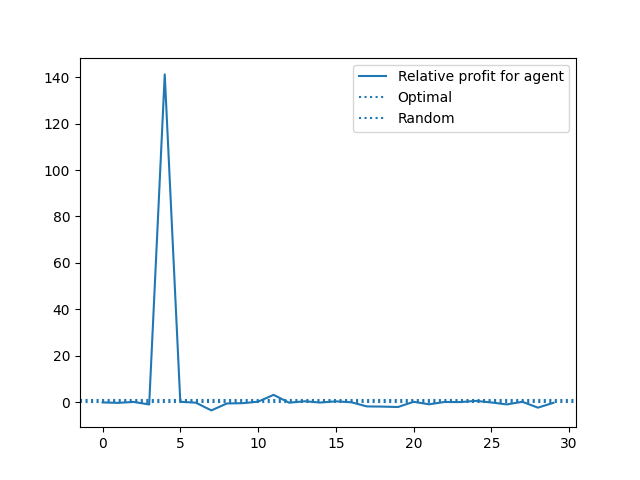
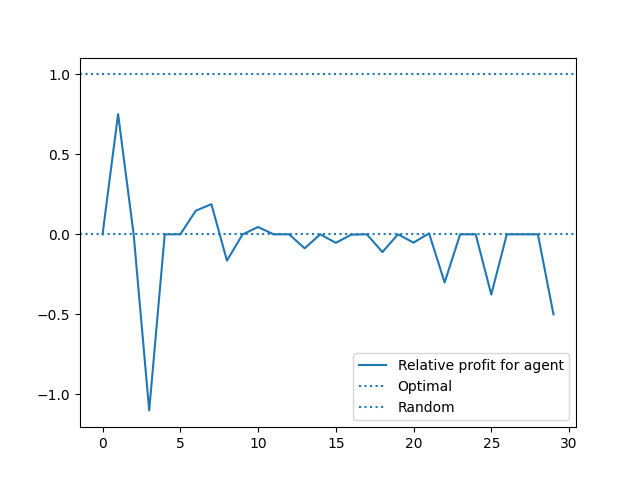
refactoring code, separating env agent, analytics

diff --git a/main.py b/main.py
@@ -1,36 +1,44 @@
-import gym 
-from gym_trading_btc.gym_anytrading.envs.bitcoin_env import *
-import gym_trading_btc.gym_anytrading as gym_anytrading
-import pandas as pd
 import matplotlib.pyplot as plt
+import pandas as pd
+from gym_trading_btc.gym_anytrading.envs.bitcoin_env import CryptoEnv
+from analytics.env_scorer import CryptoEnvScorer
 
-#from models.deepsense import *
+from models.dqn import DQNAgentDeepsense
 
-df_btc = pd.read_csv("gym_trading_btc/gym_anytrading/datasets/data/Bitstamp_BTCUSD_1h.csv", delimiter= ",")
+from config_mods import config_dqn_deepsense as config
 
 
-window_size = 2
-frame_len = 6
-start_index = window_size
-end_index = len(df_btc)
+df_btc = pd.read_csv(config["df_path"], delimiter=",")
 
-env = CryptoEnv(df = df_btc , window_size=window_size, frame_len= frame_len)
+env = CryptoEnv(**config)
+agent = DQNAgentDeepsense(**config)
+scorer = CryptoEnvScorer(env,agent, **config)
 
-observation = env.reset()
+num_episodes = config['num_episode']
 
-while True:
-    print(observation)
-    observation = observation[np.newaxis, ...]
+random_profit, agent_profit, optimal_profit = scorer.play_episodes(num_episodes)
 
-    action = env.action_space.sample()
-    observation, reward, done, info = env.step(action)
-    
-    
-    if done:
-        print("> Ending episode")
-        break
+def plot_asolute(random_profit, agent_profit, optimal_profit, title='figs/asolute-agent-profit.png'):
+    plt.plot(range(num_episodes), random_profit, label="Random profit")
+    plt.plot(range(num_episodes), agent_profit, label="Agent profit")
+    plt.plot(range(num_episodes), optimal_profit, label="'Optimal' profit")
+    plt.legend()
+    plt.savefig(title)
+    plt.clf()
 
-plt.figure(figsize=(16, 6))
-env.render_all(window='large')
-#plt.savefig("output.png")
-plt.show()
+def plot_relative(random_profit, agent_profit, optimal_profit, title='figs/relative-agent-profit.png'):
+    relative = []
+    for r,a,o in zip(random_profit, agent_profit, optimal_profit):
+        try:
+            relative.append(float(a - r) / (o - r))
+        except:
+            relative.append(0)
+    plt.plot(range(num_episodes), relative, label="Relative profit for agent")
+    plt.axhline(y = 1, linestyle = ':', label = "Optimal")
+    plt.axhline(y = 0, linestyle = ':', label = "Random")
+    plt.legend()
+    plt.savefig(title)
+
+
+plot_asolute(random_profit, agent_profit, optimal_profit)
+plot_relative(random_profit, agent_profit, optimal_profit)

diff --git a/analytics/env_scorer.py b/analytics/env_scorer.py
@@ -1,16 +1,15 @@
-from cgi import print_form
 
 from models.agent import Agent
-from .bitcoin_env import CryptoEnv,Actions
+from gym_trading_btc.gym_anytrading.envs.bitcoin_env import Actions
 import numpy as np
 import random as rand
 
 class CryptoEnvScorer():
 
-    def __init__(self, env, agent):
+    def __init__(self, env, agent, **config):
         self.env = env
         self.agent = agent
-        self.random = Agent()
+        self.random = Agent(**config)
         
 
     def play_episodes(self, num_episodes):
@@ -36,14 +35,6 @@ class CryptoEnvScorer():
         optimal_profit = self.play_optimal()
 
         return random_profit, agent_profit, optimal_profit
-
-    def play_random(self):
-        done = False
-        reward = None
-        while not(done):
-            random_action = self.env.action_space.sample()
-            _, reward, done, _ = self.env.step(random_action)
-        return reward
 
     def play_optimal(self):
 

diff --git a/models/dqn/DQN_deepsense.py b/models/dqn/DQN_deepsense.py
@@ -91,7 +91,7 @@ class DQNSolver(nn.Module):
         output_fin = self.mlp_block(output_gru)
         return output_fin
 
-class DQNAgent_ds(Agent): 
+class DQNAgentDeepsense(Agent): 
     def __init__(self, **config):
         super().__init__(**config)
          
@@ -121,7 +121,7 @@ class DQNAgent_ds(Agent):
          
     def predict(self, state):
         if random.random() < self.exploration_rate:
-            return random.randint(0, self.action_space-1)
+            return random.randint(0, self.num_actions-1)
         else: 
             state = torch.from_numpy(state).float()
             state = state.unsqueeze(0)

diff --git a/models/agent.py b/models/agent.py
@@ -1,11 +1,14 @@
 
+from gym.spaces import Discrete
 
 class Agent: 
 
     def __init__(self, **kwargs):
          self.window_size = kwargs["window_size"]
          self.num_features = kwargs["num_features"]
-         self.action_space = kwargs["num_actions"]
+         self.num_actions = kwargs["num_actions"]
+
+         self.action_space = Discrete(self.num_actions)
          self.state_space = self.window_size * self.num_features
         
          

diff --git a/config_mods/__init__.py b/config_mods/__init__.py
@@ -11,8 +11,6 @@ Method:
     
 """
 
-config_p = get_config_parser('dqn_base.cfg')
-config_dqn_base = get_config(config_p)
+config_dqn_base = get_config(get_config_parser('dqn_base.cfg'))
 
-config_p = get_config_parser('dqn_deepsense.cfg')
-config_dqn_deepsense = get_config(config_p)
+config_dqn_deepsense = get_config(get_config_parser('dqn_deepsense.cfg'))

diff --git a/trashcode/deepsense/main_dqn.py b/trashcode/deepsense/main_dqn.py
@@ -2,12 +2,12 @@ import time
 import numpy as np
 import matplotlib.pyplot as plt
 
-from models.dqn import DQNAgent_ds
+from models.dqn import DQNAgentDeepsense
 
 from config_mods import config_dqn_deepsense as config
 
 
-agent = DQNAgent_ds()
+agent = DQNAgentDeepsense()
 
 # Animation Loop
 game_reward = []

diff --git a/models/dqn/__init__.py b/models/dqn/__init__.py
@@ -1,3 +1,2 @@
 from .DQN import DQNAgent
-from .DQN_deepsense import DQNAgent_ds
-from .constants import *
+from .DQN_deepsense import DQNAgentDeepsense

diff --git a/gym_trading_btc/gym_anytrading/envs/bitcoin_env.py b/gym_trading_btc/gym_anytrading/envs/bitcoin_env.py
@@ -1,5 +1,4 @@
 import numpy as np
-from torch import threshold
 import matplotlib.pyplot as plt
 from gym import spaces
 from gym.utils import seeding
